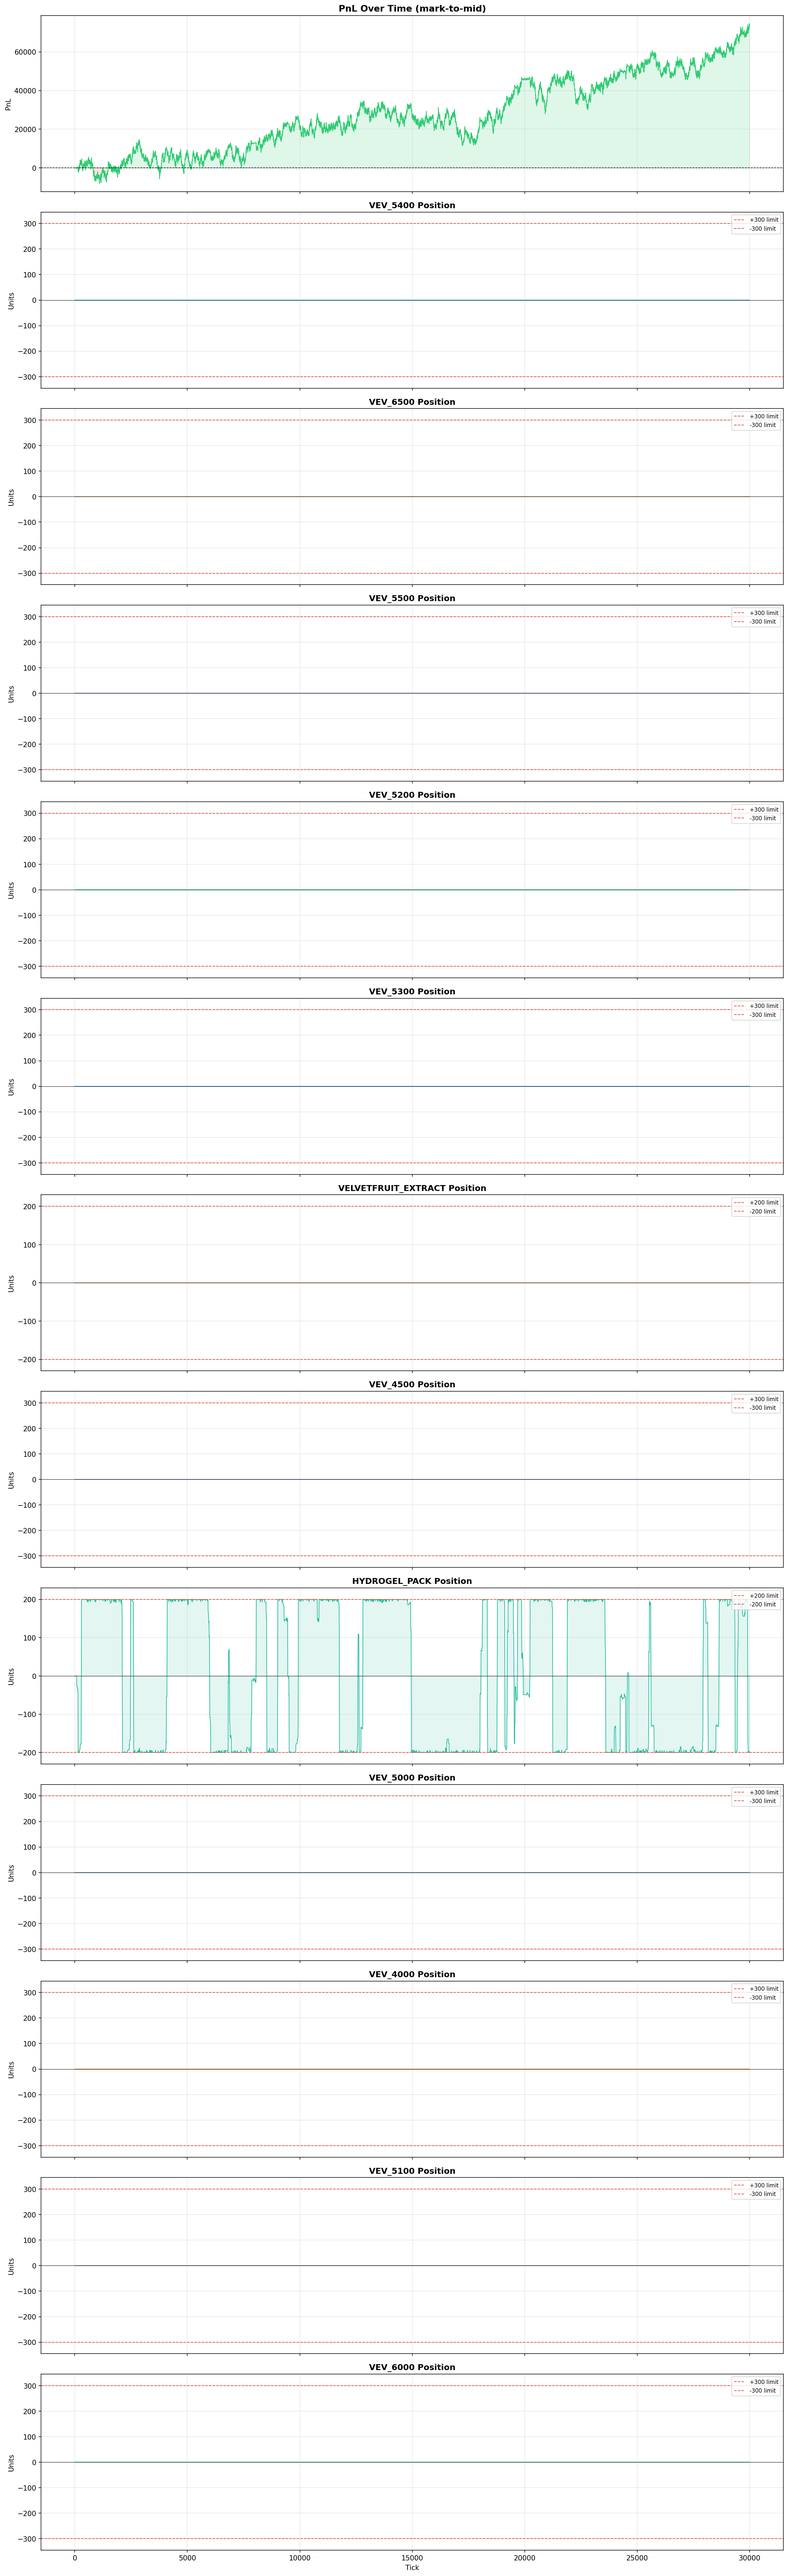
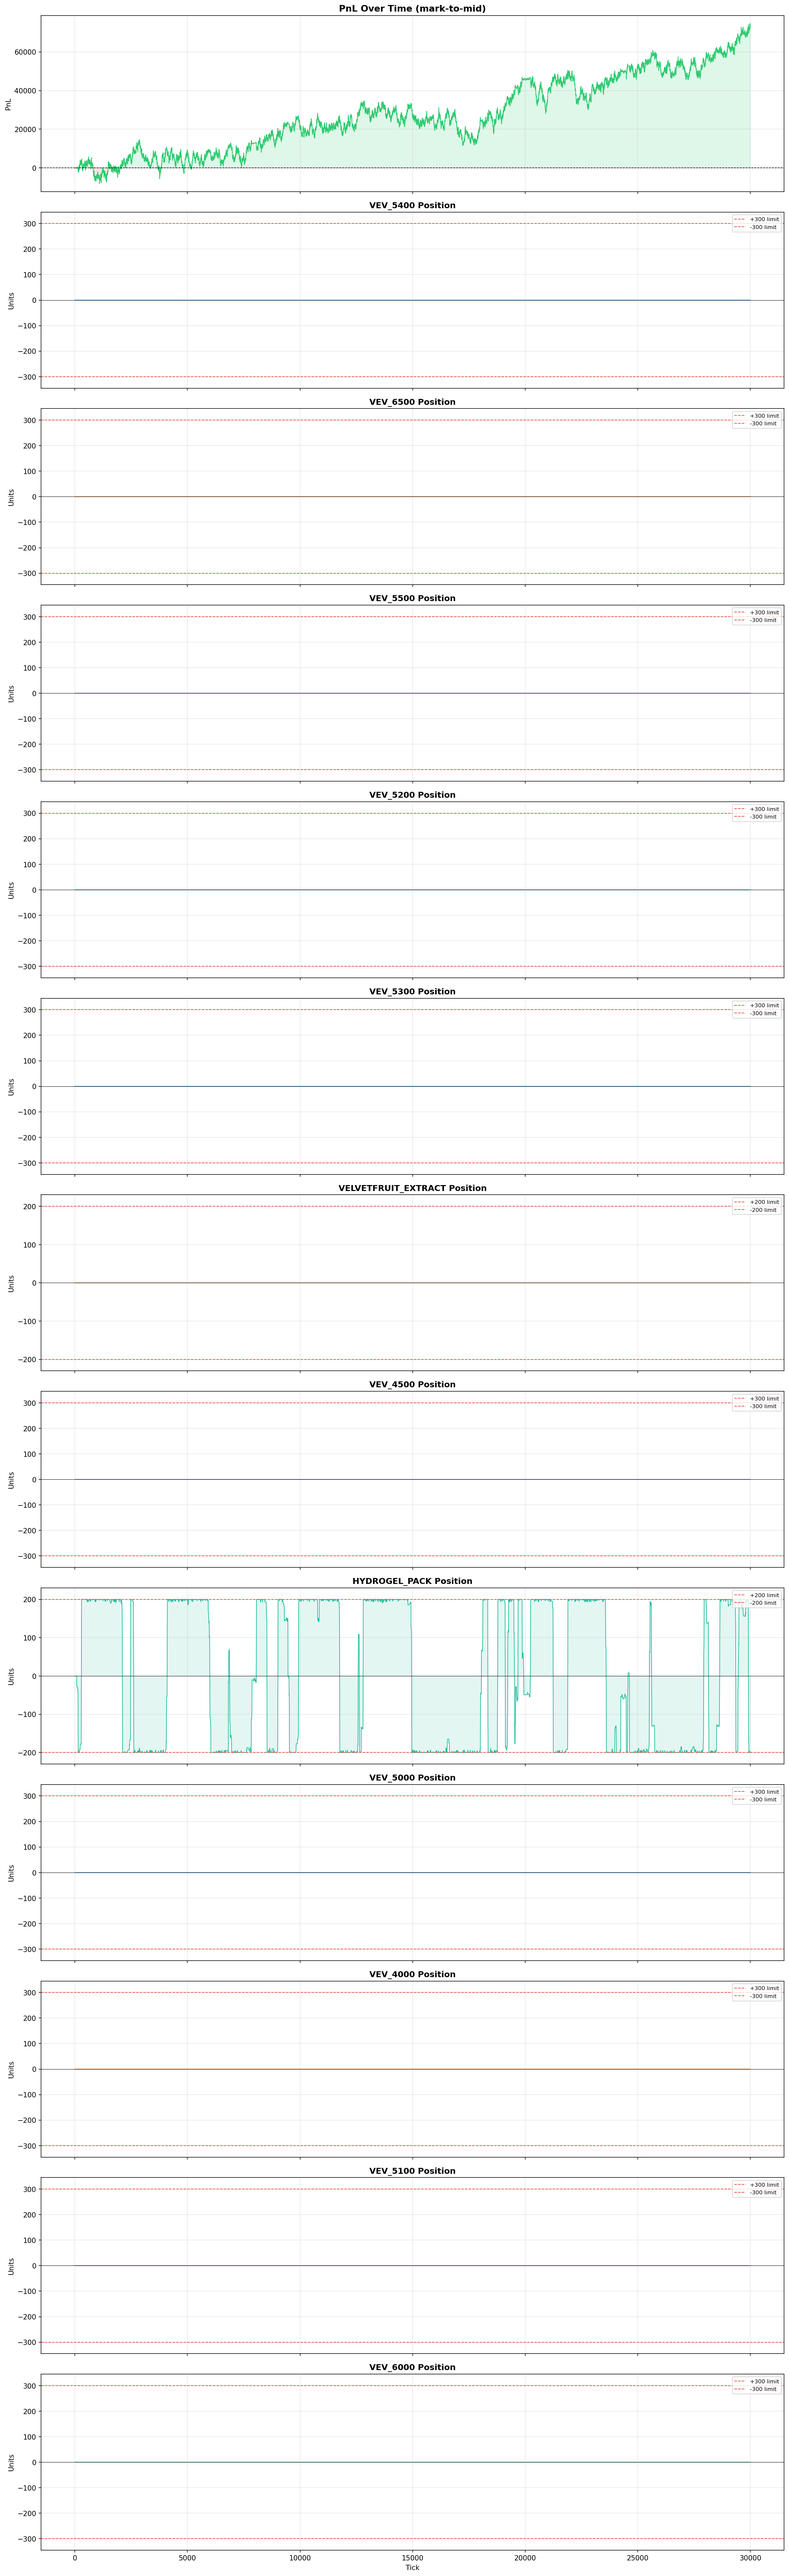
changed hydrogel

Changed region(s): [[0.9316, 0.6245, 0.9627, 0.687], [0.6211, 0.6245, 0.6832, 0.6557], [0.7763, 0.6557, 0.8074, 0.687]]

diff --git a/Tools/Backtest/totest.py b/Tools/Backtest/totest.py
@@ -1,16 +1,29 @@
-import os, sys
-sys.path.insert(0, os.path.dirname(os.path.abspath(__file__)))
 """
 WHY THIS PRODUCT IS A MM TARGET:
     - Mean ~9990, std ~32, near-zero correlation with anything else
-    - 16-wide best bid/ask spread, 73% win rate buying at bid+1
+    - 16-wide best bid/ask spread
     - Lag-1 autocorr -0.13 (weak mean reversion at tick scale)
+    - After single-tick moves >8 ticks, next tick mean-reverts 2–4.5 ticks
 
-OPTIMIZATIONS APPLIED:
-    - Slower EMA (0.0005) ensures fair value anchors strongly.
-    - Base take_edge (6) prevents paying the 16-wide spread prematurely.
-    - Wider skew_per_unit (80) maximizes spread capture before yielding.
-    - NEW: Inventory-Asymmetric Takes (Urgency scaling) to safely flatten risk.
+STRATEGY LAYERS (in order of execution each tick):
+    1. Spike mean-reversion takes
+       After a large single-tick price jump, take aggressively in the reverse
+       direction — exploits the statistically strong next-tick mean reversion.
+
+    2. EMA-based takes (with trend gate)
+       Slow EMA (0.0006) as fair value — when asks/bids look cheap/expensive
+       relative to it, take aggressively.
+       Fast EMA (0.05) as trend detector — suppresses takes that would add
+       inventory in the direction of a real short-term trend.
+
+    3. Urgency drain
+       When |pos| > 170, place a small aggressive order to start flattening
+       before hitting the 200 limit. Prevents being pinned at max inventory
+       through large price moves.
+
+    4. Passive make quotes
+       1 tick inside best bid/ask, skewed by inventory.
+       skew_per_unit=150 gives real lean: 1 tick at pos=150, not just at 200.
 """
 
 import json
@@ -19,15 +32,21 @@ from typing import Dict, List
 from datamodel import OrderDepth, TradingState, Order
 
 # ============================================================================
-# PARAMETERS 
+# PARAMETERS
 # ============================================================================
 PARAMS = {
-    "ema_alpha":        0.0006,
+    "ema_alpha":        0.0006,  # slow EMA — fair value anchor for makes + takes
+    "fast_ema_alpha":   0.05,    # fast EMA — trend signal only (~14-tick memory)
     "base_take_edge":   6,
-    "take_skew_factor": 3,   # How many ticks to flex the take edge based on inventory
+    "take_skew_factor": 3,
     "make_inside":      1,
-    "make_size":        9,  # Increased to 50 to perfectly quarter our 200 limit
-    "skew_per_unit":    370,
+    "make_size":        9,
+    "skew_per_unit":    150,
+    "trend_gate":       5,       # suppress takes when fast_ema lags cur_mid > 5 ticks
+    "spike_threshold":  8,       # single-tick move (ticks) that triggers reversion take
+    "spike_size":       20,      # units to take on a spike
+    "urgency_pos":      170,     # start draining when |pos| exceeds this
+    "urgency_size":     5,       # units to drain per tick when urgent
 }
 
 PRODUCT = "HYDROGEL_PACK"
@@ -41,17 +60,25 @@ class Trader:
         self._inited = False
 
     def _init_state(self, trader_data: str):
-        self.ema = None
+        self.ema      = None
+        self.fast_ema = None
+        self.prev_mid = None
         if trader_data:
             try:
                 d = json.loads(trader_data)
-                self.ema = d.get("ema")
+                self.ema      = d.get("ema")
+                self.fast_ema = d.get("fast_ema")
+                self.prev_mid = d.get("prev_mid")
             except Exception:
                 pass
         self._inited = True
 
     def _serialize_state(self) -> str:
-        return json.dumps({"ema": self.ema})
+        return json.dumps({
+            "ema":      self.ema,
+            "fast_ema": self.fast_ema,
+            "prev_mid": self.prev_mid,
+        })
 
     def run(self, state: TradingState):
         if not self._inited:
@@ -70,26 +97,66 @@ class Trader:
         a = min(od.sell_orders.keys())
         cur_mid = (b + a) / 2.0
 
-        # === update EMA fair value ===
-        alpha = PARAMS["ema_alpha"]
+        # ── Update EMAs ───────────────────────────────────────────────────────
         if self.ema is None:
             self.ema = cur_mid
         else:
-            self.ema = alpha * cur_mid + (1.0 - alpha) * self.ema
-        fair = self.ema
+            self.ema = PARAMS["ema_alpha"] * cur_mid + (1.0 - PARAMS["ema_alpha"]) * self.ema
+
+        if self.fast_ema is None:
+            self.fast_ema = cur_mid
+        else:
+            self.fast_ema = PARAMS["fast_ema_alpha"] * cur_mid + (1.0 - PARAMS["fast_ema_alpha"]) * self.fast_ema
+
+        fair     = self.ema
+        prev_mid = self.prev_mid if self.prev_mid is not None else cur_mid
 
         pos = state.position.get(PRODUCT, 0)
         eff = pos
 
-        # === NEW: Asymmetric Take Edge ===
-        # If pos is positive, take_skew is positive.
+        # ── 1. Spike mean-reversion takes ─────────────────────────────────────
+        # After a large single-tick price jump, the data shows strong mean
+        # reversion: >8-tick spike → next tick reverses 2–4.5 ticks on average.
+        spike = cur_mid - prev_mid
+        spike_size = PARAMS["spike_size"]
+        spike_thresh = PARAMS["spike_threshold"]
+
+        if spike < -spike_thresh:
+            # Price just dropped hard → buy the dip
+            for ask_px in sorted(od.sell_orders.keys()):
+                avail = LIMIT - eff
+                if avail <= 0:
+                    break
+                qty = min(-od.sell_orders[ask_px], avail, spike_size)
+                if qty > 0:
+                    result[PRODUCT].append(Order(PRODUCT, ask_px, qty))
+                    eff += qty
+
+        elif spike > spike_thresh:
+            # Price just jumped hard → sell the rip
+            for bid_px in sorted(od.buy_orders.keys(), reverse=True):
+                avail = LIMIT + eff
+                if avail <= 0:
+                    break
+                qty = min(od.buy_orders[bid_px], avail, spike_size)
+                if qty > 0:
+                    result[PRODUCT].append(Order(PRODUCT, bid_px, -qty))
+                    eff -= qty
+
+        # ── 2. EMA-based takes with trend gate ───────────────────────────────
         take_skew = (eff / LIMIT) * PARAMS["take_skew_factor"]
-        
-        # If pos > 0: harder to buy (higher edge needed), easier to sell (lower edge needed)
-        take_edge_buy = PARAMS["base_take_edge"] + take_skew
+        take_edge_buy  = PARAMS["base_take_edge"] + take_skew
         take_edge_sell = PARAMS["base_take_edge"] - take_skew
 
-        # === TAKE: lift cheap asks (BUYING) ===
+        # Trend gate uses fast EMA: fires on real short-term trends, not EMA-lag noise.
+        # fast_ema tracks cur_mid closely (~1-2 tick lag) so gate=5 is meaningful.
+        fast_diff = cur_mid - self.fast_ema
+        gate = PARAMS["trend_gate"]
+        if fast_diff < -gate:
+            take_edge_buy = 999   # downtrend — don't buy aggressively
+        if fast_diff > gate:
+            take_edge_sell = 999  # uptrend — don't sell aggressively
+
         for ask_px in sorted(od.sell_orders.keys()):
             if ask_px > fair - take_edge_buy:
                 break
@@ -101,7 +168,6 @@ class Trader:
                 result[PRODUCT].append(Order(PRODUCT, ask_px, qty))
                 eff += qty
 
-        # === TAKE: hit pricey bids (SELLING) ===
         for bid_px in sorted(od.buy_orders.keys(), reverse=True):
             if bid_px < fair + take_edge_sell:
                 break
@@ -113,30 +179,50 @@ class Trader:
                 result[PRODUCT].append(Order(PRODUCT, bid_px, -qty))
                 eff -= qty
 
-        # === MAKE: passive 1 tick inside best b/a, skewed by inventory ===
-        inside = PARAMS["make_inside"]
+        # ── 3. Urgency drain ─────────────────────────────────────────────────
+        # When near the limit, actively reduce inventory at market rather than
+        # wait passively. Prevents holding max inventory through a large move.
+        urg_pos  = PARAMS["urgency_pos"]
+        urg_size = PARAMS["urgency_size"]
+
+        if eff > urg_pos and od.buy_orders:
+            qty = min(eff - urg_pos, urg_size, LIMIT + eff)
+            if qty > 0:
+                result[PRODUCT].append(Order(PRODUCT, b, -qty))
+                eff -= qty
+
+        if eff < -urg_pos and od.sell_orders:
+            qty = min(-eff - urg_pos, urg_size, LIMIT - eff)
+            if qty > 0:
+                result[PRODUCT].append(Order(PRODUCT, a, qty))
+                eff += qty
+
+        # ── 4. Passive make quotes ────────────────────────────────────────────
+        inside   = PARAMS["make_inside"]
         make_bid = b + inside
         make_ask = a - inside
-        
+
         if make_bid >= make_ask:
             make_bid = int(math.floor(fair)) - 2
             make_ask = int(math.ceil(fair)) + 2
 
-        skew = -int(round(eff / PARAMS["skew_per_unit"]))
+        skew      = -int(round(eff / PARAMS["skew_per_unit"]))
         make_bid += skew
         make_ask += skew
-        
+
         # Safe circuit breaker - do not touch!
         if make_bid >= make_ask:
+            self.prev_mid = cur_mid
             return result, 0, self._serialize_state()
 
-        size = PARAMS["make_size"]
-        buy_room = LIMIT - eff
+        size      = PARAMS["make_size"]
+        buy_room  = LIMIT - eff
         sell_room = LIMIT + eff
-        
+
         if buy_room > 0:
             result[PRODUCT].append(Order(PRODUCT, int(make_bid), min(size, buy_room)))
         if sell_room > 0:
             result[PRODUCT].append(Order(PRODUCT, int(make_ask), -min(size, sell_room)))
 
+        self.prev_mid = cur_mid
         return result, 0, self._serialize_state()
